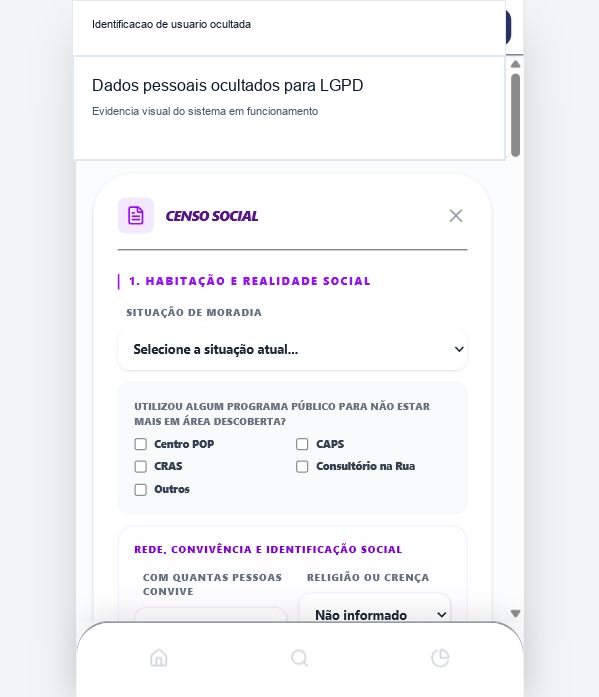
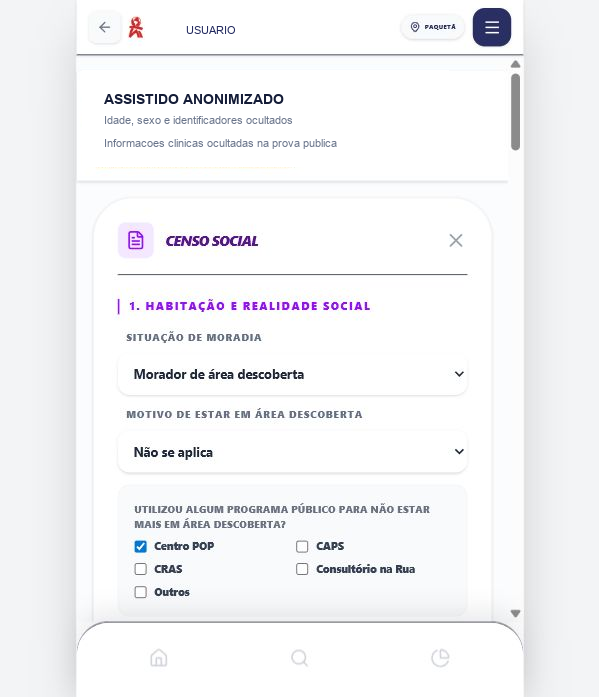
update final Vercel evidence and documentation

diff --git a/src/main.jsx b/src/main.jsx
@@ -1,10 +1,14 @@
 import { StrictMode } from 'react'
 import { createRoot } from 'react-dom/client'
+import { Analytics } from '@vercel/analytics/react'
+import { SpeedInsights } from '@vercel/speed-insights/react'
 import './index.css'
 import App from './App.jsx'
 
 createRoot(document.getElementById('root')).render(
   <StrictMode>
     <App />
+    <Analytics />
+    <SpeedInsights />
   </StrictMode>,
 )

diff --git a/docs/EVIDENCIAS.md b/docs/EVIDENCIAS.md
@@ -1,6 +1,10 @@
 # Evidencias de Desenvolvimento e Aplicacao
 
-As evidencias abaixo demonstram que o sistema foi desenvolvido, testado e preparado para uso nas acoes da Medicos do Mundo em Santos-SP e Itanhaem-SP.
+As evidencias abaixo demonstram que o sistema foi desenvolvido, testado, aplicado e utilizado nas acoes da Medicos do Mundo em Santos-SP e Itanhaem-SP.
+
+O primeiro ciclo de uso ocorreu em Santos-SP, nas acoes vinculadas a regiao do Centro POP/Paqueta. A partir do funcionamento em campo e da satisfacao dos voluntarios com a organizacao do fluxo, o sistema foi expandido para Itanhaem-SP, incluindo a localidade de Belas Artes, onde tambem passou a ser utilizado. O projeto encontra-se em fase de entrega final das versoes documentadas.
+
+Versao publicada utilizada nas evidencias finais: [https://app-medicos.vercel.app/](https://app-medicos.vercel.app/)
 
 > Observacao LGPD: as imagens foram sanitizadas antes de entrar no repositorio. Nomes, documentos e identificacoes de usuarios/assistidos foram ocultados.
 
@@ -10,30 +14,55 @@ O dashboard consolida indicadores por local da acao, permitindo leitura rapida d
 
 ![Dashboard operacional](evidencias/dashboard-operacional-sanitizado.png)
 
-## 2. Tela de triagem
+## 2. Indicadores operacionais
+
+Os indicadores demonstram a consolidacao do uso do sistema: assistidos cadastrados, atendimentos registrados, areas com movimento e cobertura de censo social. Os valores exibidos foram anonimizados e filtrados por local da acao.
+
+![Indicadores operacionais](evidencias/indicadores-operacionais-sanitizado.png)
+
+## 3. Tela de triagem
 
 A triagem registra queixa principal, uso de medicacao, sinais vitais, prioridade, sinais de atencao e encaminhamento para areas de atendimento.
 
 ![Triagem sanitizada](evidencias/triagem-sanitizada.png)
 
-## 3. Censo social
+## 4. Fluxo e ficha do assistido
+
+O fluxo de assistidos recentes mostra o acesso rapido aos atendimentos, com texto operacional adequado para retorno ao cuidado. A ficha concentra o cabecalho clinico, alertas, roteiro, censo e possibilidades de atendimento extra.
+
+![Fluxo de assistidos](evidencias/fluxo-assistidos-sanitizado.png)
+
+![Ficha do assistido](evidencias/ficha-assistido-sanitizado.png)
+
+## 5. Priorizacao e atencao inclusiva
+
+A triagem possui classificacao de prioridade e marcadores de cuidado para situacoes de risco, TEA/autismo, deficiencias, criancas vulneraveis, gestantes, idosos frageis e outras necessidades de acompanhamento.
+
+![Priorizacao e atencao inclusiva](evidencias/triagem-prioridade-sanitizada.png)
+
+## 6. Censo social
 
 O censo social registra situacao de moradia, rede de apoio, trabalho, uso de substancias, saude sexual/reprodutiva, antecedentes clinicos, saude mental, seguranca alimentar e pets.
 
 ![Censo social sanitizado](evidencias/censo-social-sanitizado.png)
 
-## 4. Evidencias tecnicas no repositorio
+O bloco de uso de substancias foi ajustado para registrar nao apenas a substancia referida, mas tambem frequencia, quantidade e contexto de uso.
+
+![Uso de substancias](evidencias/censo-substancias-sanitizado.png)
+
+## 7. Evidencias tecnicas no repositorio
 
 - Codigo React em `src/App.jsx` e componentes auxiliares em `src/components/`.
 - Configuracao Firebase em `firebase.json`, `firestore.rules`, `storage.rules` e `functions/index.js`.
+- Publicacao web realizada na Vercel.
 - Exportacao de planilhas via biblioteca `write-excel-file`.
 - Controle de acesso por perfil nas regras do Firestore e nas Cloud Functions.
 - Build de producao validado com `npm run build`.
 - Qualidade estatica validada com `npm run lint`.
 
-## 5. Evidencias operacionais
+## 8. Evidencias operacionais
 
-Durante o desenvolvimento foram utilizados cadastros, triagens, atendimentos simulados e registros reais de validacao para testar:
+Durante o desenvolvimento e a aplicacao em campo foram utilizados cadastros, triagens, atendimentos, simulacoes e registros reais de validacao para testar:
 
 - assistidos com informacoes completas;
 - assistidos com informacoes parciais;
@@ -43,5 +72,6 @@ Durante o desenvolvimento foram utilizados cadastros, triagens, atendimentos sim
 - dashboards por area;
 - exportacao geral e por data;
 - perfis de voluntario, academico, profissional, coordenacao e administracao.
+- separacao por local da acao em Santos-SP e Itanhaem-SP.
 
 As evidencias com dados pessoais nao foram publicadas no GitHub por seguranca e adequacao a LGPD.

diff --git a/docs/RELATORIO_ATIVIDADE_EXTENSIONISTA.md b/docs/RELATORIO_ATIVIDADE_EXTENSIONISTA.md
@@ -38,9 +38,11 @@ Desenvolvimento de uma Ferramenta Web Responsiva para Triagem, Registro e Gestao
 
 O projeto foi aplicado em acoes da Medicos do Mundo realizadas nos municipios de Santos-SP e Itanhaem-SP. A instituicao atua na area da saude e assistencia humanitaria, com foco em populacoes em situacao de vulnerabilidade social.
 
-Em Santos-SP, o principal contexto de aplicacao envolve as acoes realizadas na regiao do Centro POP, no bairro Paqueta, com apoio de voluntarios, estudantes, profissionais de saude e parceiros da rede publica. Em Itanhaem-SP, o sistema foi estruturado para apoiar a expansao da iniciativa em localidades de atendimento comunitario, incluindo a regiao de Belas Artes.
+Em Santos-SP, o principal contexto de aplicacao envolveu as acoes realizadas na regiao do Centro POP, no bairro Paqueta, com apoio de voluntarios, estudantes, profissionais de saude e parceiros da rede publica. O sistema foi utilizado nesse contexto para apoiar cadastro, triagem, censo social, fluxo de atendimento e acompanhamento de indicadores. Apos o funcionamento em Santos-SP e a satisfacao relatada pelos voluntarios com a organizacao do processo, a solucao foi expandida para Itanhaem-SP, incluindo a regiao de Belas Artes, onde tambem passou a ser utilizada.
 
-O setor de aplicacao corresponde a etapa operacional de acolhimento, cadastro, triagem, censo social, organizacao da fila e registro de atendimentos multiprofissionais durante as acoes presenciais. A ferramenta foi projetada para funcionar em celular ou notebook, com separacao dos dados por local da acao, permitindo que prontuarios, indicadores e exportacoes sejam vinculados a praca onde o atendimento ocorreu.
+O setor de aplicacao corresponde a etapa operacional de acolhimento, cadastro, triagem, censo social, organizacao da fila e registro de atendimentos multiprofissionais durante as acoes presenciais. A ferramenta foi projetada para funcionar em celular ou notebook, com separacao dos dados por local da acao, permitindo que prontuarios, indicadores e exportacoes sejam vinculados a praca onde o atendimento ocorreu. Atualmente, o projeto esta em fase de entrega final das versoes documentadas e das evidencias anonimizadas para avaliacao academica.
+
+A versao publicada para acesso e demonstracao encontra-se em: [https://app-medicos.vercel.app/](https://app-medicos.vercel.app/).
 
 ## Objetivos de Desenvolvimento Sustentavel (ODS)
 
@@ -104,8 +106,8 @@ flowchart TD
 | 6 | Implementacao do backend com Firebase Auth, Firestore, regras e Functions | 6 dias |
 | 7 | Implementacao dos formularios de cadastro, triagem, censo e atendimentos | 8 dias |
 | 8 | Desenvolvimento dos dashboards e exportacao em Excel | 4 dias |
-| 9 | Testes funcionais, simulacoes e validacao com evidencias | 6 dias |
-| 10 | Ajustes finais de usabilidade, seguranca, LGPD e documentacao | 4 dias |
+| 9 | Aplicacao inicial em Santos-SP, testes funcionais, simulacoes e validacao com evidencias | 6 dias |
+| 10 | Expansao para Itanhaem-SP, ajustes finais de usabilidade, seguranca, LGPD e documentacao | 4 dias |
 
 ### Tecnologias utilizadas
 
@@ -121,6 +123,7 @@ flowchart TD
 | write-excel-file | Exportacao de dados e dashboards em planilhas Excel |
 | Lucide React | Iconografia da interface |
 | ESLint | Verificacao de qualidade de codigo |
+| Vercel | Publicacao da aplicacao web |
 
 ### Requisitos funcionais implementados
 
@@ -147,7 +150,9 @@ flowchart TD
 
 ## Resultados Esperados/Obtidos
 
-O resultado obtido foi um prototipo funcional de sistema web responsivo para apoiar as acoes da Medicos do Mundo em Santos-SP e Itanhaem-SP. A solucao permite cadastrar assistidos, registrar triagens, preencher censo social, organizar fila de espera, realizar atendimentos multiprofissionais, consultar historico, acompanhar indicadores e exportar dados para analise pela coordenacao.
+O resultado obtido foi um sistema web responsivo funcional para apoiar as acoes da Medicos do Mundo em Santos-SP e Itanhaem-SP. A solucao permite cadastrar assistidos, registrar triagens, preencher censo social, organizar fila de espera, realizar atendimentos multiprofissionais, consultar historico, acompanhar indicadores e exportar dados para analise pela coordenacao.
+
+O projeto foi inicialmente aplicado e utilizado em Santos-SP. O uso em campo demonstrou funcionamento adequado para organizar o fluxo de assistidos e facilitar o trabalho dos voluntarios. A satisfacao dos voluntarios com a ferramenta e a percepcao de utilidade operacional motivaram a expansao para Itanhaem-SP, onde o sistema tambem passou a ser utilizado, respeitando a separacao de dados por local da acao.
 
 Foram implementadas funcionalidades que atendem diretamente aos objetivos propostos:
 
@@ -160,25 +165,38 @@ Foram implementadas funcionalidades que atendem diretamente aos objetivos propos
 - Exportacao de dados por data ou exportacao geral.
 - Permissoes por perfil, restringindo exportacao e administracao a coordenacao/administracao.
 - Evidencias visuais do sistema em funcionamento.
+- Indicadores operacionais demonstrando assistidos cadastrados, atendimentos registrados, areas com movimento e cobertura de censo social.
 
-As evidencias reunidas incluem prints do dashboard, triagem, censo social, registros simulados, dados de atendimento e documentacao do codigo. Os prints disponibilizados no repositorio foram anonimizados para respeitar a LGPD.
+As evidencias reunidas incluem prints do dashboard, indicadores, triagem, censo social, registros de atendimento, simulacoes, dados de uso e documentacao do codigo. Os prints disponibilizados no repositorio foram anonimizados para respeitar a LGPD.
 
 ### Evidencias visuais
 
 ![Dashboard operacional](evidencias/dashboard-operacional-sanitizado.png)
 
+![Indicadores operacionais](evidencias/indicadores-operacionais-sanitizado.png)
+
+![Fluxo de assistidos](evidencias/fluxo-assistidos-sanitizado.png)
+
+![Ficha do assistido](evidencias/ficha-assistido-sanitizado.png)
+
 ![Triagem sanitizada](evidencias/triagem-sanitizada.png)
+
+![Priorizacao e atencao inclusiva](evidencias/triagem-prioridade-sanitizada.png)
 
 ![Censo social sanitizado](evidencias/censo-social-sanitizado.png)
 
+![Uso de substancias no censo](evidencias/censo-substancias-sanitizado.png)
+
 ## Consideracoes Finais
 
-O projeto demonstrou a relevancia da tecnologia como apoio direto a acoes sociais e humanitarias. No contexto da Medicos do Mundo em Santos-SP e Itanhaem-SP, a ferramenta contribui para organizar atendimentos, reduzir perda de informacoes, melhorar a comunicacao entre areas e gerar dados mais confiaveis para tomada de decisao.
+O projeto demonstrou a relevancia da tecnologia como apoio direto a acoes sociais e humanitarias. No contexto da Medicos do Mundo em Santos-SP e Itanhaem-SP, a ferramenta contribuiu para organizar atendimentos, reduzir perda de informacoes, melhorar a comunicacao entre areas e gerar dados mais confiaveis para tomada de decisao.
+
+A aplicacao inicial em Santos-SP confirmou a utilidade da solucao em campo. A partir da satisfacao dos voluntarios e da necessidade de manter o mesmo padrao operacional em outras localidades, a ferramenta foi expandida para Itanhaem-SP e tambem utilizada nessa nova frente de atuacao. Esse resultado reforca que o projeto nao ficou restrito a uma proposta teorica, mas foi desenvolvido, aplicado, ajustado e expandido conforme a realidade da comunidade atendida.
 
 A principal aprendizagem foi compreender que sistemas voltados a saude e assistencia social precisam equilibrar robustez tecnica e simplicidade operacional. A acao em campo nao pode ser travada por excesso de burocracia, mas tambem nao pode deixar de registrar informacoes essenciais para continuidade do cuidado.
 
 Entre as dificuldades encontradas, destacam-se a organizacao de muitos formularios em uma interface simples, a definicao de regras de acesso sem impedir o trabalho dos voluntarios, a separacao dos dados por local da acao e a necessidade de garantir clareza visual em telas pequenas.
 
-Como melhorias futuras, recomenda-se evoluir a aplicacao para suporte offline completo, integracao com Firebase Storage para imagens, aprimoramento de relatorios epidemiologicos e expansao controlada para outras cidades atendidas pela organizacao.
+Como melhorias futuras, recomenda-se evoluir a aplicacao para suporte offline completo, integracao com Firebase Storage para imagens, aprimoramento de relatorios epidemiologicos e expansao controlada para outras cidades atendidas pela organizacao. No momento, o projeto segue em fase de entrega final das versoes documentadas, com a base funcional ja aplicada em Santos-SP e Itanhaem-SP.
 
 O projeto atende aos objetivos da Atividade Extensionista II ao comprovar o desenvolvimento e a aplicacao pratica de uma solucao tecnologica voltada a comunidade local, alinhada aos ODS 03, 10 e 17.

diff --git a/README.md b/README.md
@@ -4,6 +4,12 @@ Ferramenta web responsiva desenvolvida para apoiar a Medicos do Mundo em acoes h
 
 O projeto foi produzido como parte da disciplina **Atividade Extensionista II: Tecnologia Aplicada a Inclusao Digital - Projeto**, do curso **CST em Analise e Desenvolvimento de Sistemas**.
 
+## Status de aplicacao
+
+O sistema foi desenvolvido, aplicado e utilizado inicialmente nas acoes da Medicos do Mundo em Santos-SP. A partir do uso em campo e da satisfacao relatada pelos voluntarios com a organizacao do fluxo, a ferramenta foi expandida para Itanhaem-SP, onde tambem ja foi utilizada. No momento, o projeto encontra-se em fase de entrega final das versoes documentadas, com o sistema funcional, evidencias anonimizadas e documentacao academica preparada para avaliacao.
+
+Versao publicada: [https://app-medicos.vercel.app/](https://app-medicos.vercel.app/)
+
 ## Objetivo
 
 Organizar o fluxo de acolhimento, cadastro, triagem, censo social, fila de espera, atendimentos multiprofissionais, dashboards e exportacao de dados durante acoes presenciais da Medicos do Mundo.
@@ -47,13 +53,33 @@ As imagens abaixo foram anonimizadas para evitar exposicao de dados pessoais, em
 
 ![Dashboard operacional](docs/evidencias/dashboard-operacional-sanitizado.png)
 
+### Indicadores operacionais
+
+![Indicadores operacionais](docs/evidencias/indicadores-operacionais-sanitizado.png)
+
+### Fluxo de assistidos
+
+![Fluxo de assistidos](docs/evidencias/fluxo-assistidos-sanitizado.png)
+
+### Ficha do assistido
+
+![Ficha do assistido](docs/evidencias/ficha-assistido-sanitizado.png)
+
 ### Triagem
 
 ![Triagem sanitizada](docs/evidencias/triagem-sanitizada.png)
 
+### Priorizacao e atencao inclusiva
+
+![Priorizacao e atencao inclusiva](docs/evidencias/triagem-prioridade-sanitizada.png)
+
 ### Censo social
 
 ![Censo social sanitizado](docs/evidencias/censo-social-sanitizado.png)
+
+### Uso de substancias no censo
+
+![Uso de substancias](docs/evidencias/censo-substancias-sanitizado.png)
 
 ## Documentacao academica
 

diff --git a/docs/PUBLICACAO_GITHUB.md b/docs/PUBLICACAO_GITHUB.md
@@ -25,8 +25,9 @@ Os seguintes itens foram adicionados ao `.gitignore` por conterem dados sensivei
 6. No terminal, dentro da pasta do projeto, execute:
 
 ```bash
-git remote add origin https://github.com/SEU-USUARIO/app-medicos-mundo.git
-git push -u origin feature/pep-architecture-v2
+git remote add origin [email redacted]:Andalaftjr/app-medicos-mundo.git
+git branch -M main
+git push -u origin main
 ```
 
 ## Publicacao pelo GitHub Desktop
@@ -41,7 +42,10 @@ git push -u origin feature/pep-architecture-v2
 
 ## Link recomendado para enviar aos professores
 
-Apos publicar, envie o link do repositorio e destaque estes arquivos:
+Apos publicar, envie o link do repositorio, o link do sistema em producao e destaque estes arquivos:
+
+- Repositorio: `https://github.com/Andalaftjr/app-medicos-mundo`
+- Sistema publicado: `https://app-medicos.vercel.app/`
 
 - `README.md`
 - `docs/RELATORIO_ATIVIDADE_EXTENSIONISTA.md`